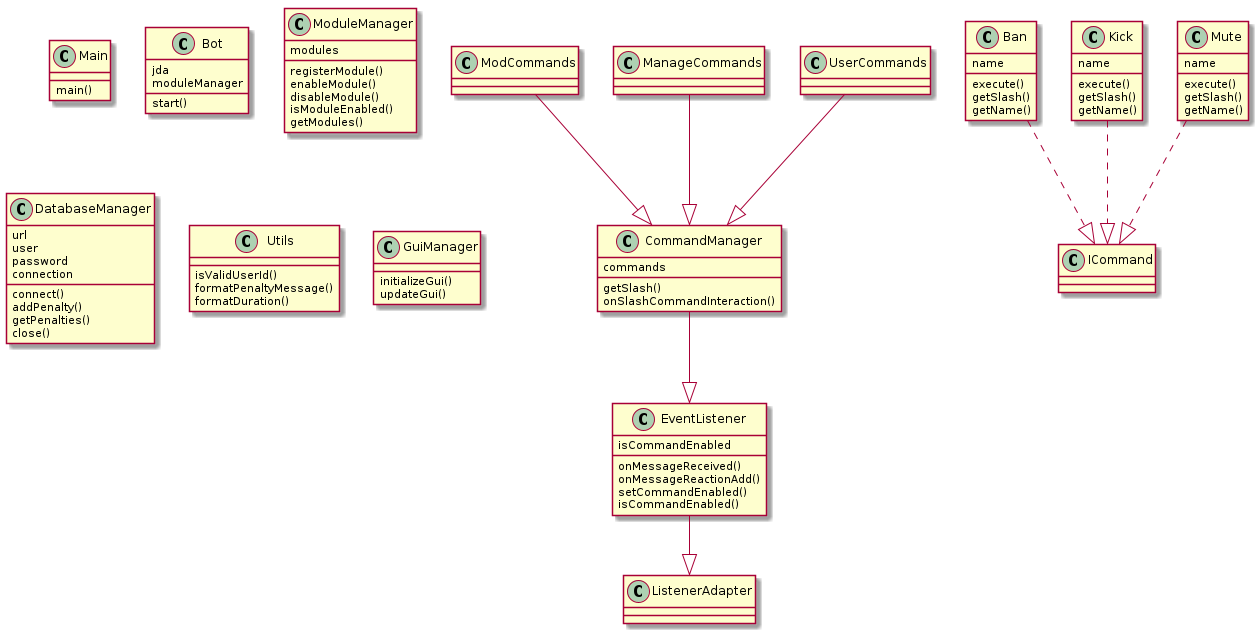
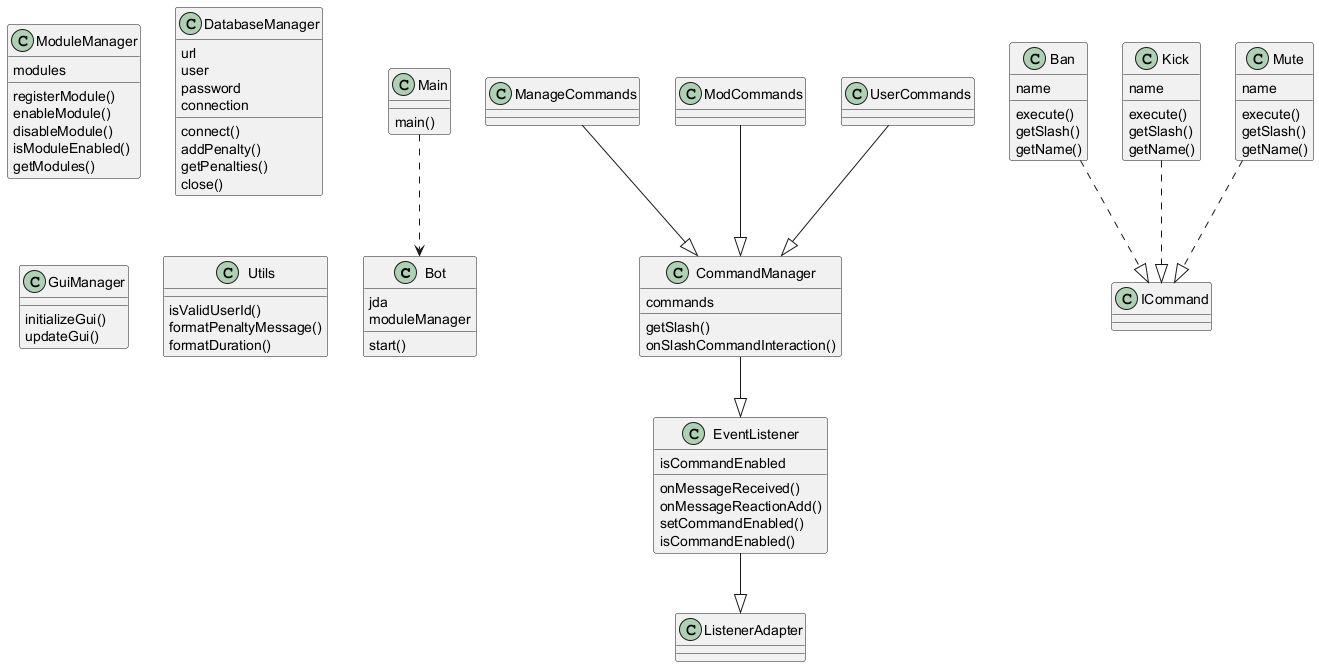
update uml

diff --git a/uml.py b/uml.py
@@ -20,12 +20,48 @@ def analyze_java_project(project_path):
                         methods = [method.name for method in node.methods]
                         extends = node.extends.name if node.extends else None
                         implements = [impl.name for impl in node.implements] if node.implements else []
+                        associations = []
+                        aggregations = []
+                        compositions = []
+                        dependencies = []
+                        for field in node.fields:
+                            field_type = field.type.name
+                            if field_type in class_map:
+                                if field.modifiers:
+                                    if any(modifier == "static" for modifier in field.modifiers):
+                                        associations.append(field_type)
+                                    elif any(modifier == "final" for modifier in field.modifiers):
+                                        aggregations.append(field_type)
+                                    else:
+                                        compositions.append(field_type)
+                                else:
+                                    associations.append(field_type)
+                            
+                        for method in node.methods:
+                            dependencies.extend(
+                                method_node.qualifier
+                                for _, method_node in method.filter(
+                                    javalang.tree.MethodInvocation
+                                )
+                                if method_node.qualifier in class_map
+                            )
+                            dependencies.extend(
+                                creation_node.type.name
+                                for _, creation_node in method.filter(
+                                    javalang.tree.ClassCreator
+                                )
+                                if creation_node.type.name in class_map
+                            )
                         classes.append({
                             "name": class_name,
                             "fields": fields,
                             "methods": methods,
                             "extends": extends,
-                            "implements": implements
+                            "implements": implements,
+                            "associations": associations,
+                            "aggregations": aggregations,
+                            "compositions": compositions,
+                            "dependencies": dependencies
                         })
                         class_map[class_name] = node
                 except javalang.parser.JavaSyntaxError as e:
@@ -51,19 +87,16 @@ def generate_plantuml(classes, class_map):
             uml_code += f"{cls['name']} o-- {aggr}\n"
         for comp in cls.get('compositions', []):
             uml_code += f"{cls['name']} *-- {comp}\n"
+        for dep in cls.get('dependencies', []):
+            uml_code += f"{cls['name']} ..> {dep}\n"
     uml_code += "@enduml\n"
     return uml_code
 
 def save_and_render_uml(uml_code, output_path):
-    """
-    Guarda el código PlantUML y renderiza el diagrama.
-    """
-    plantuml_file = os.path.join(output_path, "diagram.puml")
-    with open(plantuml_file, "w", encoding="utf-8") as f:
+    uml_file = os.path.join(output_path, "diagram.puml")
+    with open(uml_file, "w", encoding="utf-8") as f:
         f.write(uml_code)
-
-    # Usa PlantUML para generar la imagen
-    os.system(f"plantuml {plantuml_file}")
+    os.system(f"plantuml {uml_file}")
 
 # Ruta al proyecto Java y carpeta de salida
 project_path = sys.argv[1] if len(sys.argv) > 1 else "."
